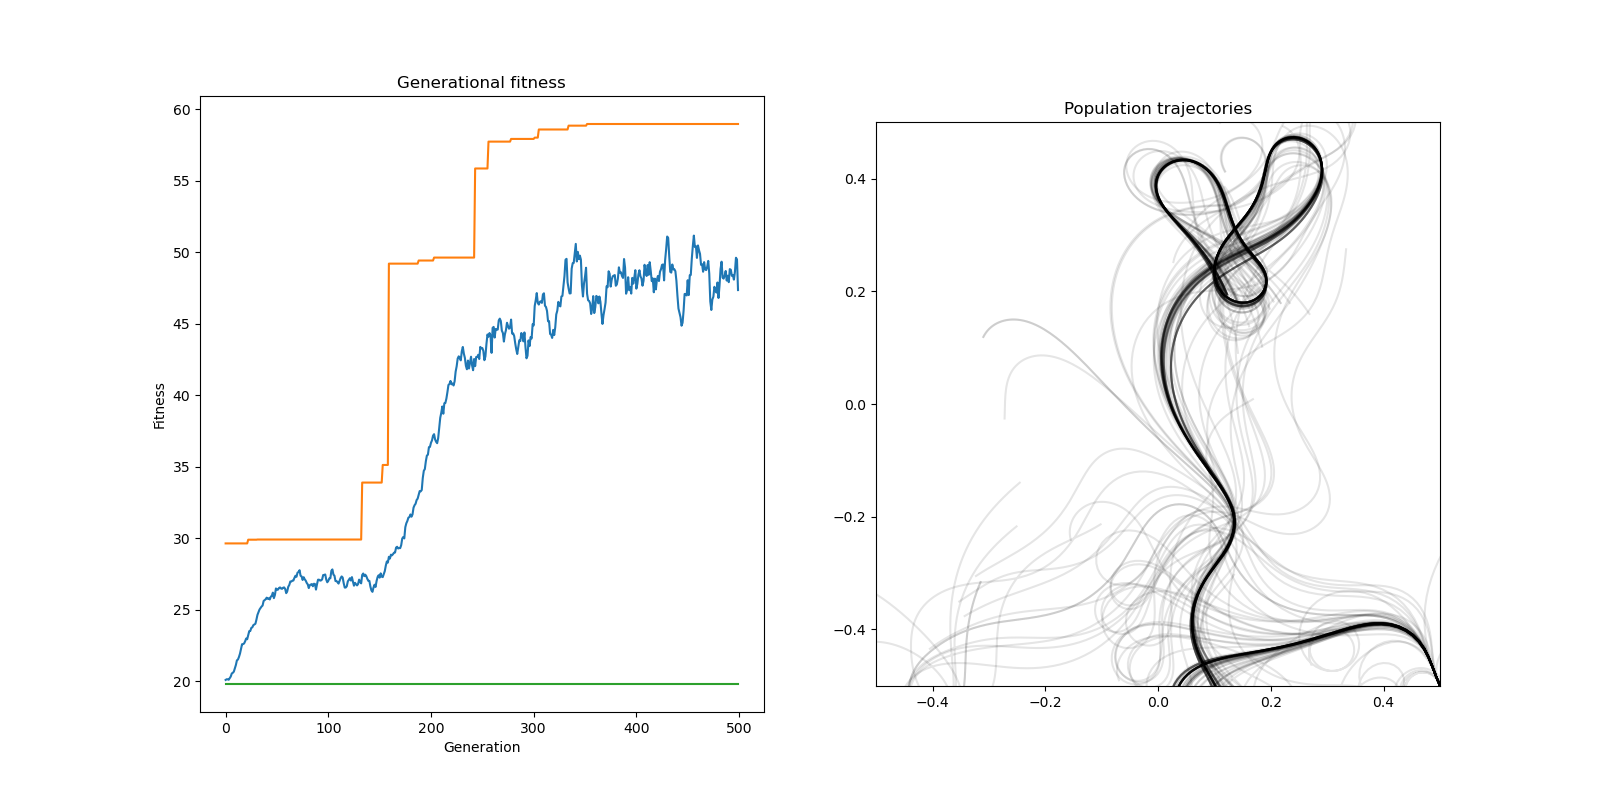
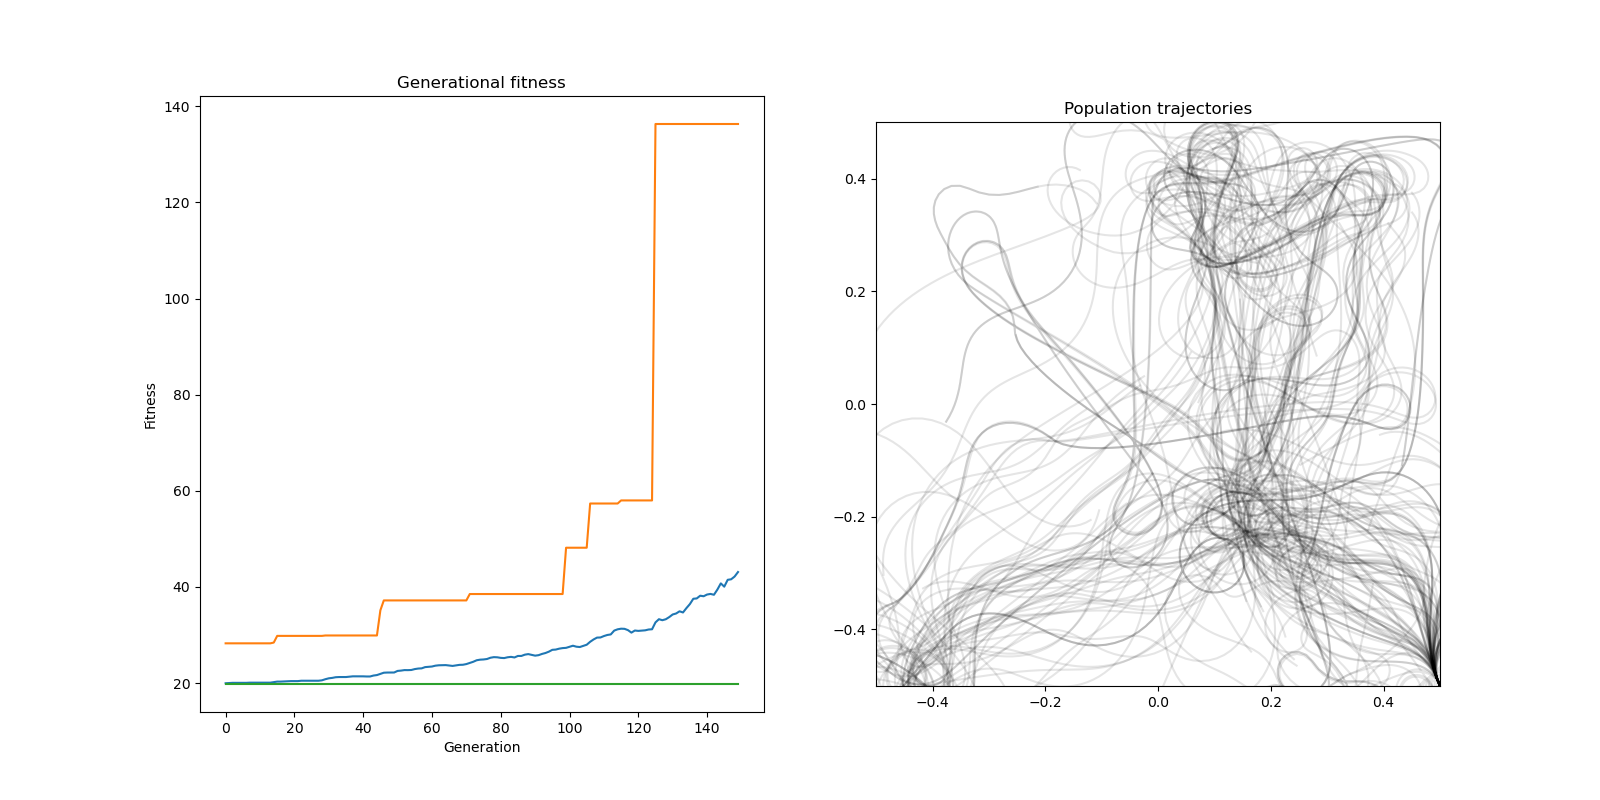
working dynamic

diff --git a/diem/Animat.py b/diem/Animat.py
@@ -99,8 +99,8 @@ class Animat:
     left_out, right_out = self.controller.get_outputs(readings)
     
     # set motor state
-    left_motor_state = min(1.0, left_out)
-    right_motor_state = min(1.0, right_out)
+    left_motor_state = left_out
+    right_motor_state = right_out
     self.motor_hist[Sides.LEFT.value].append(left_motor_state)
     self.motor_hist[Sides.RIGHT.value].append(right_motor_state)
     # calculate derivs

diff --git a/diem/__main__.py b/diem/__main__.py
@@ -6,7 +6,7 @@ from Animat import test_animat_trial
 if __name__ == '__main__':
 
   BATCHES = 1
-  BATCH_SIZE = 500
+  BATCH_SIZE = 150
 
   highest_fitness = 0
   pop = Population()
